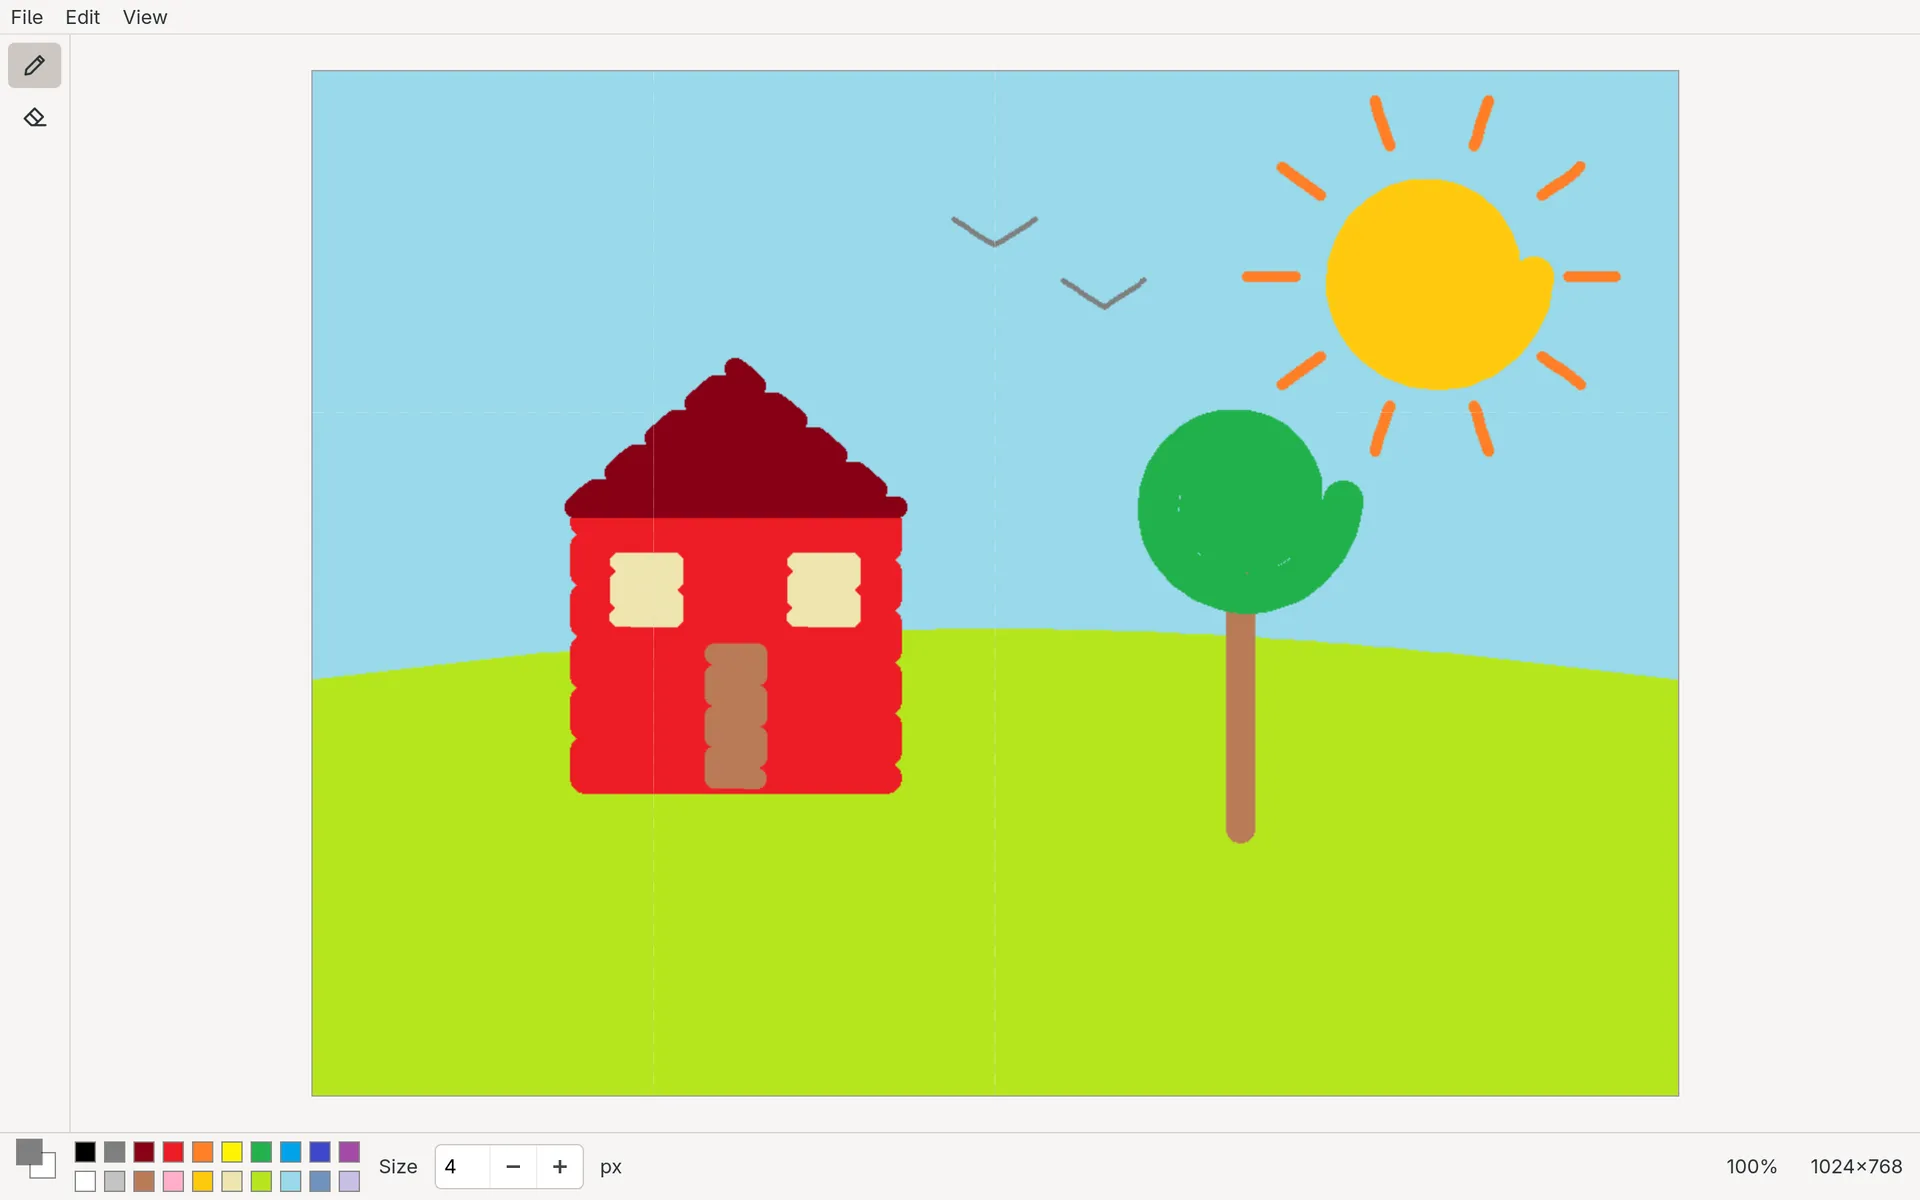
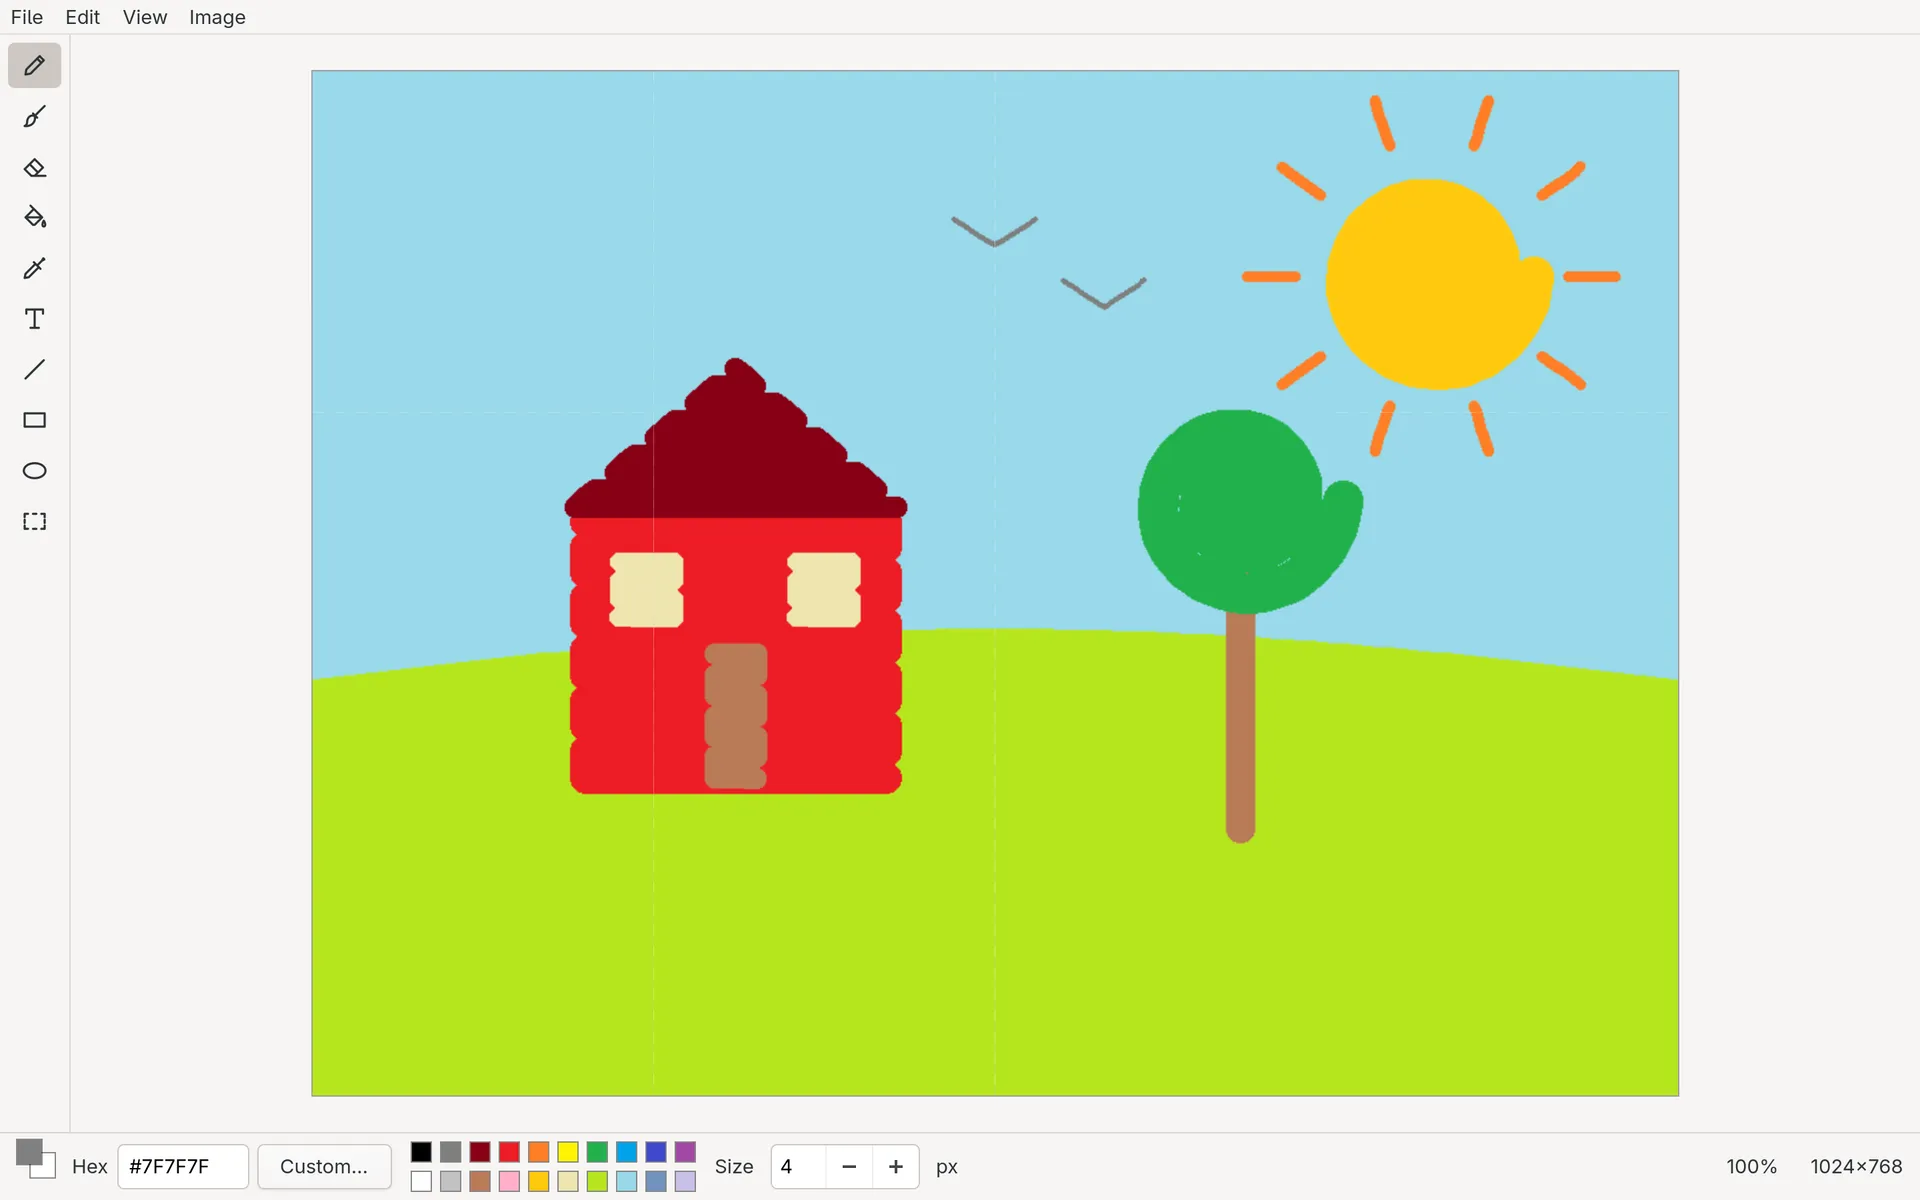
Suite page: Etch v0.2.0 on cronkite.cc and in llms.txt, with a new screenshot

Changed region(s): [[0.0312, 0.925, 0.4062, 1.0], [0.0938, 0.0, 0.125, 0.0308], [0.0, 0.0925, 0.0312, 0.1233]]

diff --git a/sites/cronkite/index.html b/sites/cronkite/index.html
@@ -45,7 +45,6 @@
   .app p { margin: 4px 0 0; font-size: 15px; }
   .badge { align-self: flex-start; font-size: 12px; font-weight: 700; letter-spacing: 0.04em; text-transform: uppercase; padding: 3px 8px; border-radius: 999px; }
   .badge.ready { color: var(--accent); background: var(--accent-tint); }
-  .badge.preview { color: var(--muted); background: var(--head); }
   .app .more { margin-top: auto; padding-top: 12px; font-size: 15px; }
 
   .cmd { display: flex; align-items: stretch; border: 1px solid var(--rule); background: var(--head); margin: 10px 0 6px; }
@@ -125,10 +124,10 @@
         <a class="more" href="#install-frame">Install Frame &darr;</a>
       </article>
       <article class="app">
-        <span class="badge preview">Early preview</span>
+        <span class="badge ready">Available now</span>
         <h3>Etch</h3>
         <span class="kind">Image editor</span>
-        <p>A simple paint program, closer to Paint than to Photoshop. Today it draws with a pencil and an eraser in Paint's 20 colours at any size, zooms to 3200%, and undoes every stroke; opening and saving PNG, JPEG, and BMP come next.</p>
+        <p>A simple paint program, closer to Paint than to Photoshop. Opens and saves PNG, JPEG, and BMP; draws with a pencil, brush, fill, lines, rectangles, ellipses, and text; selects, moves, crops, resizes, rotates, and flips, and copies and pastes with other apps. Every step undoes.</p>
         <a class="more" href="#install-etch">Install Etch &darr;</a>
       </article>
     </div>
@@ -167,8 +166,8 @@
         <figcaption><b>Frame</b>The outline view: type titles and bullets, and Frame makes the slides.</figcaption>
       </figure>
       <figure class="shot wide">
-        <a href="shots/etch-paint.webp"><img src="shots/etch-paint-1920.webp" srcset="shots/etch-paint-960.webp 960w, shots/etch-paint-1920.webp 1920w, shots/etch-paint.webp 2880w" sizes="(max-width: 980px) 100vw, 940px" width="1920" height="1200" loading="lazy" alt="Etch with a picture painted on its 1024 by 768 canvas: a red house with a dark red roof, a tree, a sun with rays, and two birds over a green hill, with the tool column on the left and the 20-colour palette and size field below."></a>
-        <figcaption><b>Etch</b>Early preview: a pencil and an eraser in Paint's 20 colours at any size, with every stroke undoable.</figcaption>
+        <a href="shots/etch-paint.webp"><img src="shots/etch-paint-1920.webp" srcset="shots/etch-paint-960.webp 960w, shots/etch-paint-1920.webp 1920w, shots/etch-paint.webp 2880w" sizes="(max-width: 980px) 100vw, 940px" width="1920" height="1200" loading="lazy" alt="Etch with a picture painted on its 1024 by 768 canvas: a red house with a dark red roof, a tree, a sun with rays, and two birds over a green hill. On the left the tool column: pencil, brush, eraser, fill, colour picker, text, line, rectangle, ellipse, and selection; below, the colours, a hex field, the 20-colour palette, and the size."></a>
+        <figcaption><b>Etch</b>Paint's tools and keys: pencil, brush, fill, shapes, and text in Paint's 20 colours or any other, every step undoable.</figcaption>
       </figure>
     </div>
   </section>
@@ -203,13 +202,13 @@
       <pre id="install-etch-cmd">curl -fsSL https://etch.cronkite.cc/install.sh | sh</pre>
       <button type="button" data-copy="install-etch-cmd">Copy</button>
     </div>
-    <p class="note">The command is <code>etch</code>. It opens no files yet, so it takes over no file types. Download page: <a href="https://etch.cronkite.cc">etch.cronkite.cc</a>.</p>
+    <p class="note">The command is <code>etch</code>. PNG, JPEG, and BMP images open with it. Download page: <a href="https://etch.cronkite.cc">etch.cronkite.cc</a>.</p>
 
     <h3>What an installer does</h3>
     <ol class="steps">
       <li>Downloads the app's latest release and checks it against its published sha256. If the checksum doesn't match, nothing is installed.</li>
       <li>Puts the app (<code>brick</code>, <code>slate</code>, <code>frame</code>, <code>etch</code>) in <code>~/.local/bin</code>, and its menu entry and icon in <code>~/.local/share</code>.</li>
-      <li>Makes it the default app for its files (above), so double-clicking one opens it. Other apps' defaults for other files are kept. (Etch, which opens no files yet, changes no defaults.)</li>
+      <li>Makes it the default app for its files (above), so double-clicking one opens it. Other apps' defaults for other files are kept.</li>
     </ol>
 
     <h3>Requirements</h3>
